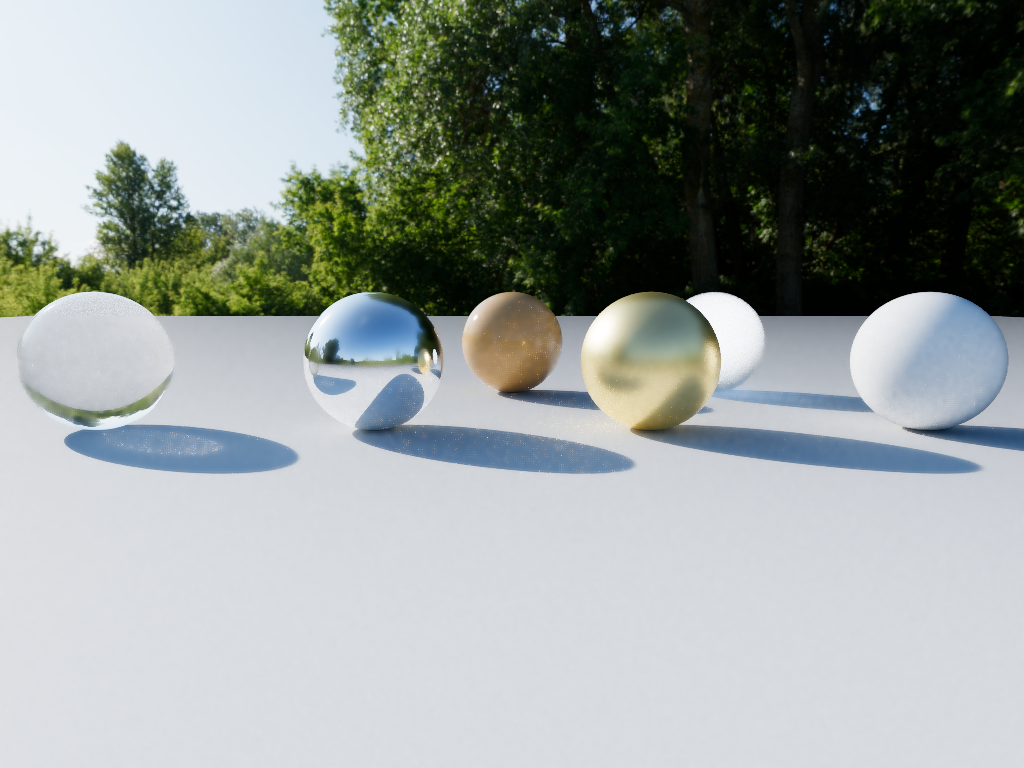
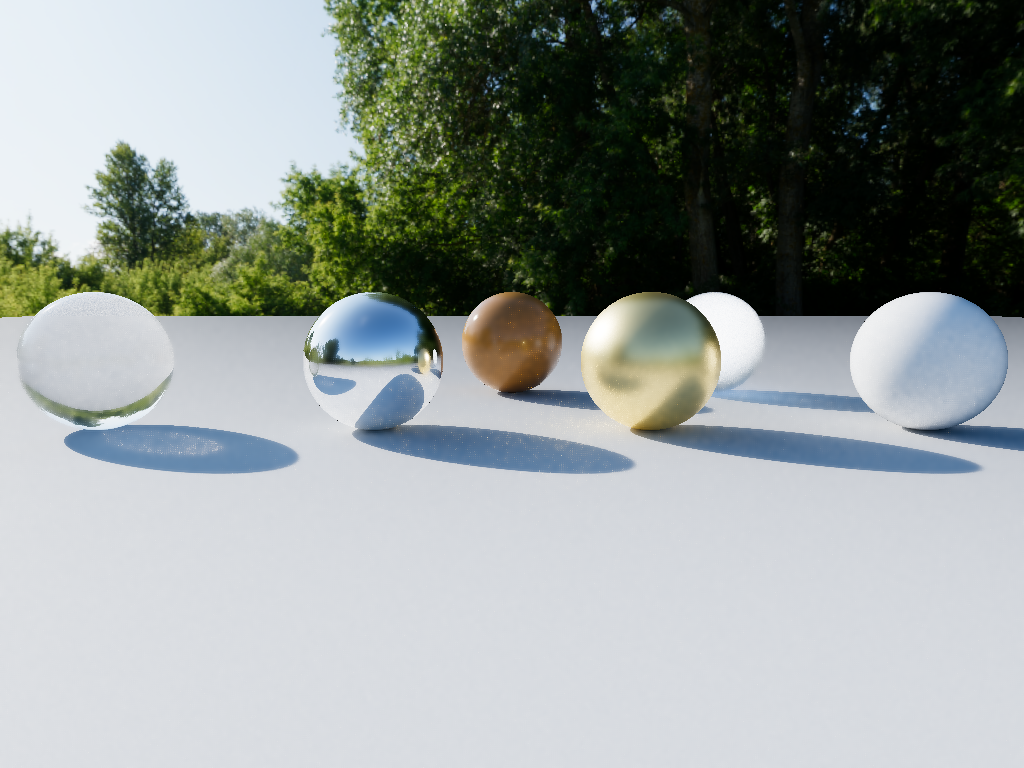
release: v0.6.0 — OpenPBR 1.1.1 conformance batch
Bump version 0.5.0 -> 0.6.0 and repin Harmonia v0.5.0 -> v0.6.0 (Aether stays v0.5.0).
Regenerate all showcase screenshots (1024x768) from the current build. Update the
material table + prose: bulk subsurface and transmission-scatter now run the same
chromatic volumetric random walk as Hyperion (shared, in the RT-GI compute stage).
Extend the README references with the volumetric/spectral papers and cross-link
Harmonia's shared-BSDF references.

Changed region(s): [[0.4062, 0.375, 0.5625, 0.5312], [0.2812, 0.4375, 0.3125, 0.4688]]

diff --git a/README.md b/README.md
@@ -73,7 +73,7 @@ All parameters follow the [OpenPBR spec](https://academysoftwarefoundation.githu
 | Emission | `emission_luminance`, `emission_color` | ✅ |
 | Thin-film | `thin_film_weight`, `thin_film_thickness`, `thin_film_ior` | ✅ |
 | Transmission | `transmission_weight`, `transmission_color`, `transmission_depth` | ✅ |
-| Subsurface | `subsurface_weight`, `subsurface_color`, `subsurface_radius`, `subsurface_radius_scale`, `subsurface_scatter_anisotropy` | ⚠ diffuse approximation (Hyperion uses a real volumetric random walk) |
+| Subsurface | `subsurface_weight`, `subsurface_color`, `subsurface_radius`, `subsurface_radius_scale`, `subsurface_scatter_anisotropy` | ✅ real volumetric random walk (shared with Hyperion, run in the RT-GI compute stage) |
 | Geometry | `geometry_opacity` | ⚠ BRDF weight reduction (not alpha-blended transparency) |
 
 Conductor reflectance uses the OpenPBR generalized-Schlick **F82-tint** model (`base_color` = F0, `specular_color` = 82° tint). Specular and coat microfacets use GGX with the spec's anisotropy remapping plus Turquin/Kulla-Conty multiple-scattering compensation.
@@ -82,7 +82,7 @@ Conductor reflectance uses the OpenPBR generalized-Schlick **F82-tint** model (`
 
 **Fuzz/sheen** is the OpenPBR spec model — a faithful port of MaterialX's Zeltner et al. 2022 "Practical Multiple-Scattering Sheen Using Linearly Transformed Cosines" (analytic LTC + directional-albedo fits, no lookup table). The sheen directional albedo also drives the physically-correct, view-dependent darkening of the layers beneath the fuzz. Shared Harmonia BSDF → **identical to Hyperion**.
 
-**Subsurface** currently uses the shared diffuse approximation (a color/radius-tinted diffuse response), so bulk-subsurface materials diverge from Hyperion, which runs a real volumetric random walk. Closing this in real time is the planned RT-path work (see roadmap); the parameters are identical, only the transport model differs.
+**Subsurface** (bulk, non-thin-walled) runs the **same chromatic volumetric random walk as Hyperion** — routed through the unified RT-GI compute stage (`gi.comp` executes the shared hero-wavelength free-flight/scatter/boundary estimator on both primary and secondary vertices). Light refracts through the dielectric interface (Fresnel-gated), takes Henyey-Greenstein scattering steps with per-channel extinction derived from `subsurface_radius` × `subsurface_radius_scale` (single-scatter albedo = `subsurface_color`), and exits through the interface. Thin-walled subsurface keeps the diffuse-sheet approximation. **Transmission scattering** (`transmission_scatter`) reuses the same walk, so both match Hyperion's transport model, not just its parameters.
 
 ### Color pipeline
 - Scene-referred rendering in a selectable **working color space**: linear **Rec.2020**
@@ -298,9 +298,13 @@ Where a technique is shared with [Hyperion](https://github.com/McNopper/Hyperion
 ### Material Model
 | Resource | Relevance |
 |----------|-----------|
-| [OpenPBR Surface Specification v1.1](https://academysoftwarefoundation.github.io/OpenPBR/) | Material layer stack, parameter naming, F82-tint conductor model |
+| [OpenPBR Surface Specification v1.1.1](https://academysoftwarefoundation.github.io/OpenPBR/) | Material layer stack, parameter naming, F82-tint conductor model |
 | [MaterialX Standard Surface](https://materialx.org/) | Cross-reference for PBR parameter vocabulary; `mx_ggx_dir_albedo_analytic` for IBL |
 | [Blender Principled BSDF](https://docs.blender.org/manual/en/latest/render/shader_nodes/shader/principled.html) | Cross-reference for PBR parameter vocabulary |
+| [Henyey & Greenstein — "Diffuse Radiation in the Galaxy" (1941)](https://articles.adsabs.harvard.edu/pdf/1941ApJ....93...70H) | Henyey-Greenstein phase function for the subsurface / transmission volumetric random walk (RT-GI compute stage) |
+| [Wilkie et al. — "Hero Wavelength Spectral Sampling" (EGSR 2014)](https://cgg.mff.cuni.cz/~wilkie/Website/EGSR_14_files/WNDWH14.pdf) | Hero-wavelength spectral-MIS estimator for chromatic (per-channel) subsurface / transmission media |
+| [Novák et al. — "Monte Carlo Methods for Volumetric Light Transport Simulation" (Eurographics STAR 2018)](https://cs.dartmouth.edu/~wjarosz/publications/novak18monte.html) | Free-flight distance sampling, collision estimators, and transmittance for the medium walk |
+| [Harmonia README — Surface BSDF references](https://github.com/McNopper/Harmonia#references) | Full citations for the shared BSDF closures (thin-film, sheen/LTC, MS-comp, conductor Fresnel) implemented in `bsdf_shared.slang` |
 
 ### Color Science
 | Resource | Relevance |
